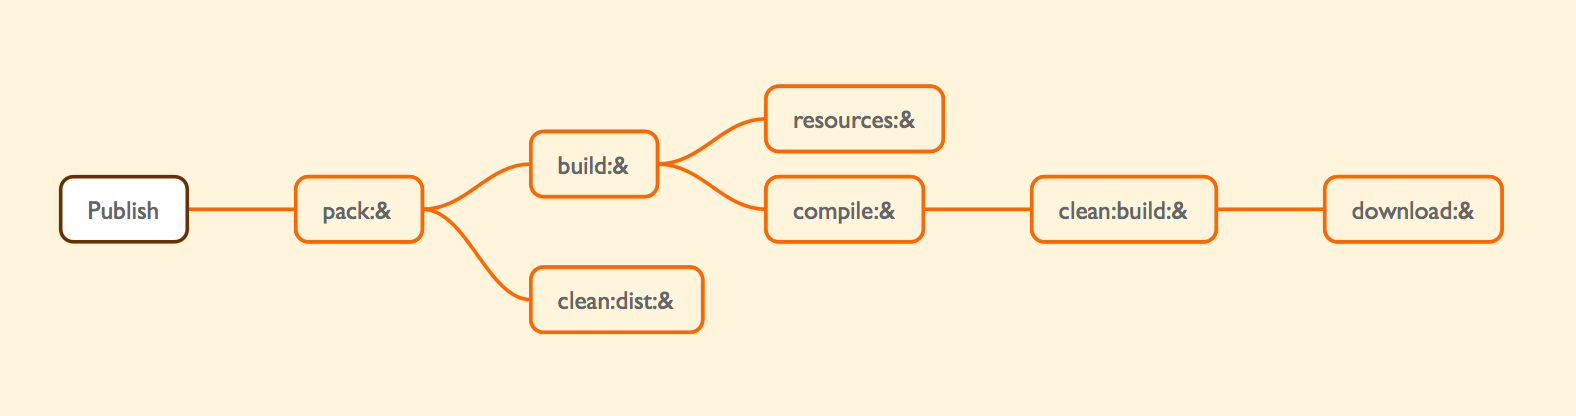
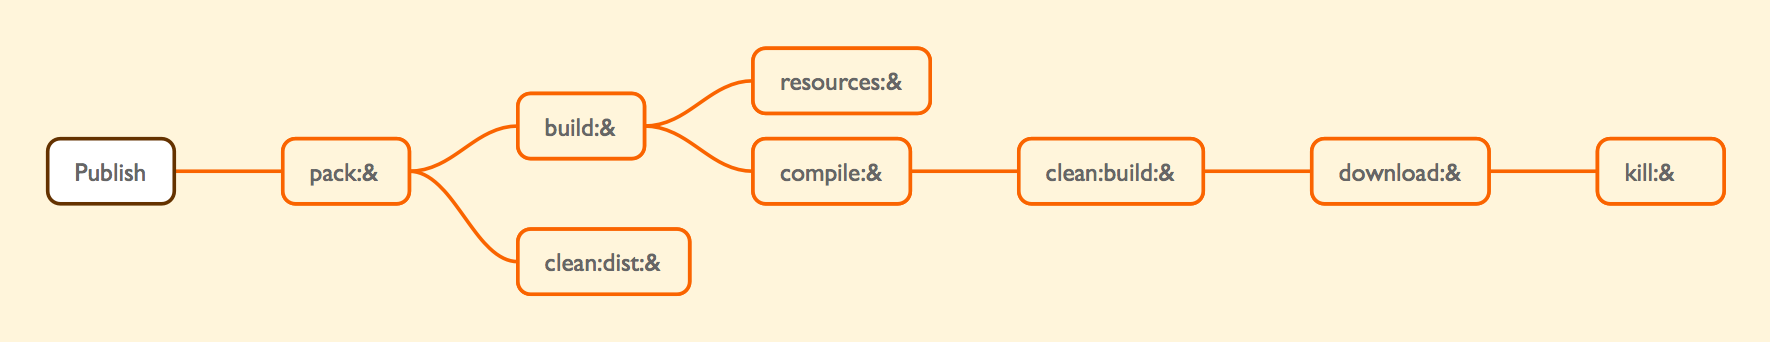
Adds kill task (kills the app if running)

Changed region(s): [[0.0, 0.117, 0.9949, 0.8772]]

diff --git a/README.md b/README.md
@@ -147,6 +147,7 @@ Don't forget to set the vars listed in `.env-example`. You'll need them for some
 | clean:dist:&                    | Remove files in dist and make sure the directory exists.
 | compile:&                       | Compile, process and move your code into the build folder.
 | download:&                      | Download the Electron framework. Cache the files, then unzip them and move them into the build folder.
+| kill:&                          | Kill the app if already running. Depends on the platform it is ran on.
 | pack:&                          | Create the installers/packages. These also handle app signing.
 | publish:github                  | Upload the dist files to GitHub.
 | purge:{build,cache,dist}        | Abolish the chosen directory.
